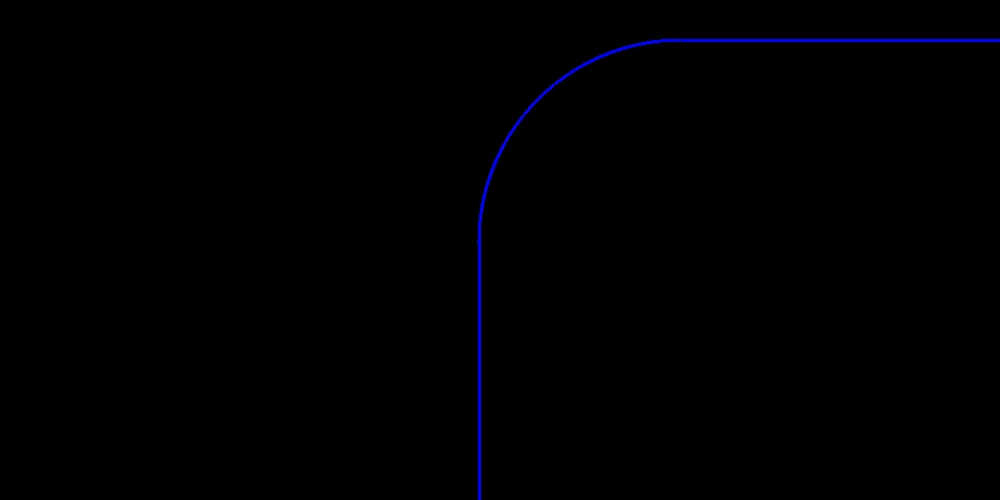
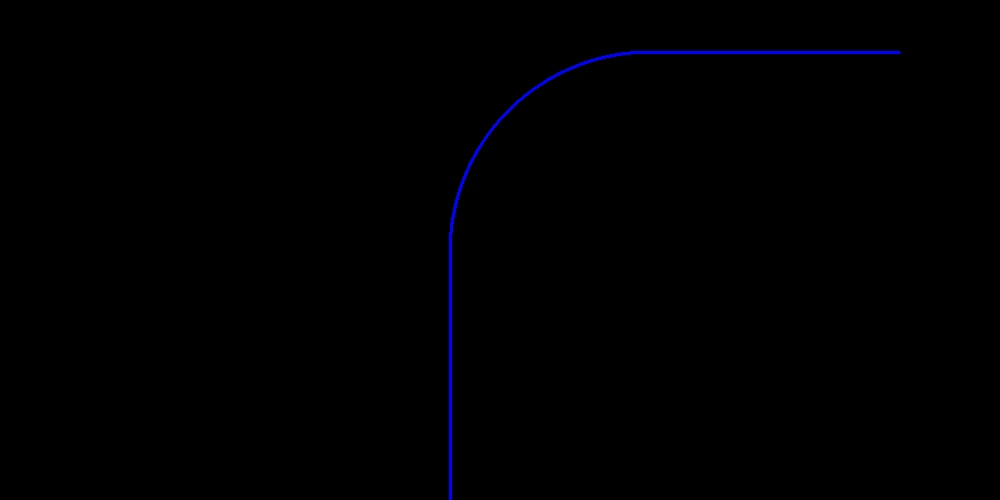
update contours

Changed region(s): [[0.434, 0.12, 0.589, 1.0], [0.589, 0.06, 1.0, 0.12]]

diff --git a/src/contourBuilder.cpp b/src/contourBuilder.cpp
@@ -15,32 +15,28 @@
  * Center of the circle = (650, 252)
  * @return
  */
-std::vector<cv::Point> contourBuilder::getSimpleRightContour()
+std::vector<cv::Point> contourBuilder::getSimpleRightContour(const int RADIUS_OF_THE_CIRCLE, const int VERTICAL_LINE_SIZE, const int HORIZONTAL_LINE_SIZE)
 {
     const int ROWS = 500;
-    const int COLS = 1000;
-    const int radiusOfTheCircle = 200;
-    const int VERTICAL_LINE_SIZE = 250;
-    const int HORIZONTAL_LINE_SIZE = 250;
 
     std::vector<cv::Point> contour;
 
     for (int yCoordinate = ROWS; yCoordinate > ROWS - VERTICAL_LINE_SIZE; --yCoordinate)
     {
-        contour.emplace_back(cv::Point(HORIZONTAL_LINE_SIZE + radiusOfTheCircle, yCoordinate));
+        contour.emplace_back(cv::Point(HORIZONTAL_LINE_SIZE + RADIUS_OF_THE_CIRCLE, yCoordinate));
     }
 
-    cv::Point centerOfTheCircle(contour[contour.size() - 1].x + radiusOfTheCircle, contour[contour.size() - 1].y + 1);
+    cv::Point centerOfTheCircle(contour[contour.size() - 1].x + RADIUS_OF_THE_CIRCLE, contour[contour.size() - 1].y + 1);
 
     double epsilon = 1.0 / 15;
     double angle = 180;
     while (angle <= 270)
     {
-        contour.emplace_back(cv::Point(centerOfTheCircle.x + radiusOfTheCircle * cos(angle / 180 * CV_PI), centerOfTheCircle.y + radiusOfTheCircle * sin(angle / 180 * CV_PI)));
+        contour.emplace_back(cv::Point(centerOfTheCircle.x + RADIUS_OF_THE_CIRCLE * cos(angle / 180 * CV_PI), centerOfTheCircle.y + RADIUS_OF_THE_CIRCLE * sin(angle / 180 * CV_PI)));
         angle += epsilon;
     }
 
-    int lastYCoordinateOfCircle = centerOfTheCircle.y + radiusOfTheCircle * sin(angle / 180 * CV_PI);
+    int lastYCoordinateOfCircle = centerOfTheCircle.y + RADIUS_OF_THE_CIRCLE * sin(angle / 180 * CV_PI);
 
     for (int xCoordinate = centerOfTheCircle.x; xCoordinate < HORIZONTAL_LINE_SIZE + centerOfTheCircle.x; ++xCoordinate)
     {
@@ -57,12 +53,8 @@ std::vector<cv::Point> contourBuilder::getSimpleRightContour()
  * Center of the circle = (650, 250)
  * @return
  */
-std::vector<cv::Point> contourBuilder::getSimpleUpperRightContour()
+std::vector<cv::Point> contourBuilder::getSimpleUpperRightContour(const int RADIUS_OF_THE_CIRCLE, const int VERTICAL_LINE_SIZE, const int HORIZONTAL_LINE_SIZE)
 {
-    const int VERTICAL_LINE_SIZE = 250;
-    const int HORIZONTAL_LINE_SIZE = 250;
-    const int RADIUS_OF_THE_CIRCLE = 200;
-
     std::vector<cv::Point> contour;
 
     for (int yCoordinate = 1; yCoordinate < VERTICAL_LINE_SIZE; ++yCoordinate)
@@ -116,11 +108,14 @@ void contourBuilder::saveContoursOnImage(const std::vector<std::vector<cv::Point
  */
 std::vector<cv::Point> contourBuilder::getSimpleStraightContour()
 {
+    const int VERTICAL_LINE_SIZE = 450;
+    const int X_COORDINATE_OF_THE_LINE = 450;
+
     std::vector<cv::Point> contour;
 
-    for (int yCoordinate = 1; yCoordinate < 500; ++yCoordinate)
+    for (int yCoordinate = 1; yCoordinate < VERTICAL_LINE_SIZE; ++yCoordinate)
     {
-        contour.emplace_back(cv::Point(479, yCoordinate));
+        contour.emplace_back(cv::Point(X_COORDINATE_OF_THE_LINE, yCoordinate));
     }
 
     return contour;

diff --git a/src/contourBuilder.h b/src/contourBuilder.h
@@ -11,8 +11,8 @@
 
 class contourBuilder {
 public:
-    static std::vector<cv::Point> getSimpleRightContour();
-    static std::vector<cv::Point> getSimpleUpperRightContour();
+    static std::vector<cv::Point> getSimpleRightContour(int RADIUS_OF_THE_CIRCLE = 200, int VERTICAL_LINE_SIZE = 250, int HORIZONTAL_LINE_SIZE = 250);
+    static std::vector<cv::Point> getSimpleUpperRightContour(int RADIUS_OF_THE_CIRCLE = 200, int VERTICAL_LINE_SIZE = 250, int HORIZONTAL_LINE_SIZE = 250);
     static std::vector<cv::Point> getSimpleStraightContour();
     static void saveContoursOnImage(const std::vector<std::vector<cv::Point>> &contours);
     static std::vector<std::vector<cv::Point>> getRightContours();
